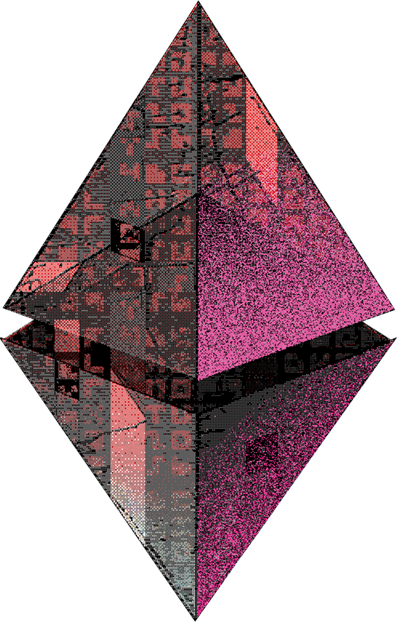
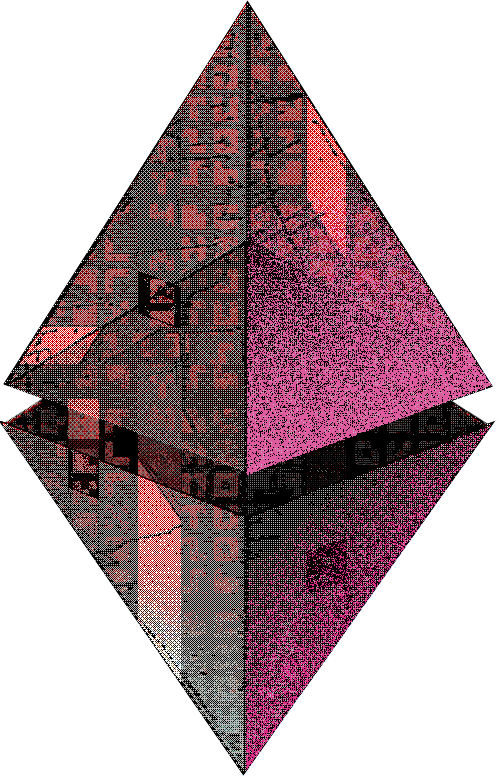
Updating branding

diff --git a/src/components/HomepageFeatures/index.js b/src/components/HomepageFeatures/index.js
@@ -26,7 +26,7 @@ const FeatureList = [
     png: require('@site/static/img/great-ux-dx.png').default,
     description: (
       <>
-        Ten has a seamless developer and user experience. DApps written for Ethereum will just work on Ten.
+        DApps written for Ethereum will just work on Ten.
         You don't have to learn any new languages and can use all your favorite Ethereum tools.
       </>
     ),

diff --git a/src/css/custom.css b/src/css/custom.css
@@ -19,7 +19,7 @@
 
 /* For readability concerns, you should choose a lighter palette in dark mode. */
 [data-theme='dark'] {
-  --ifm-color-primary: #5078D2;
+  --ifm-color-primary: #DDD;
   --ifm-color-primary-dark: #4A6EC2;
   --ifm-color-primary-darker: #445CB1;
   --ifm-color-primary-darkest: #3C4A9F;

diff --git a/src/components/HomepageFeatures/styles.module.css b/src/components/HomepageFeatures/styles.module.css
@@ -6,6 +6,6 @@
 }
 
 .featureSvg {
-  height: 200px;
+  height: 264px;
   width: 200px;
 }
